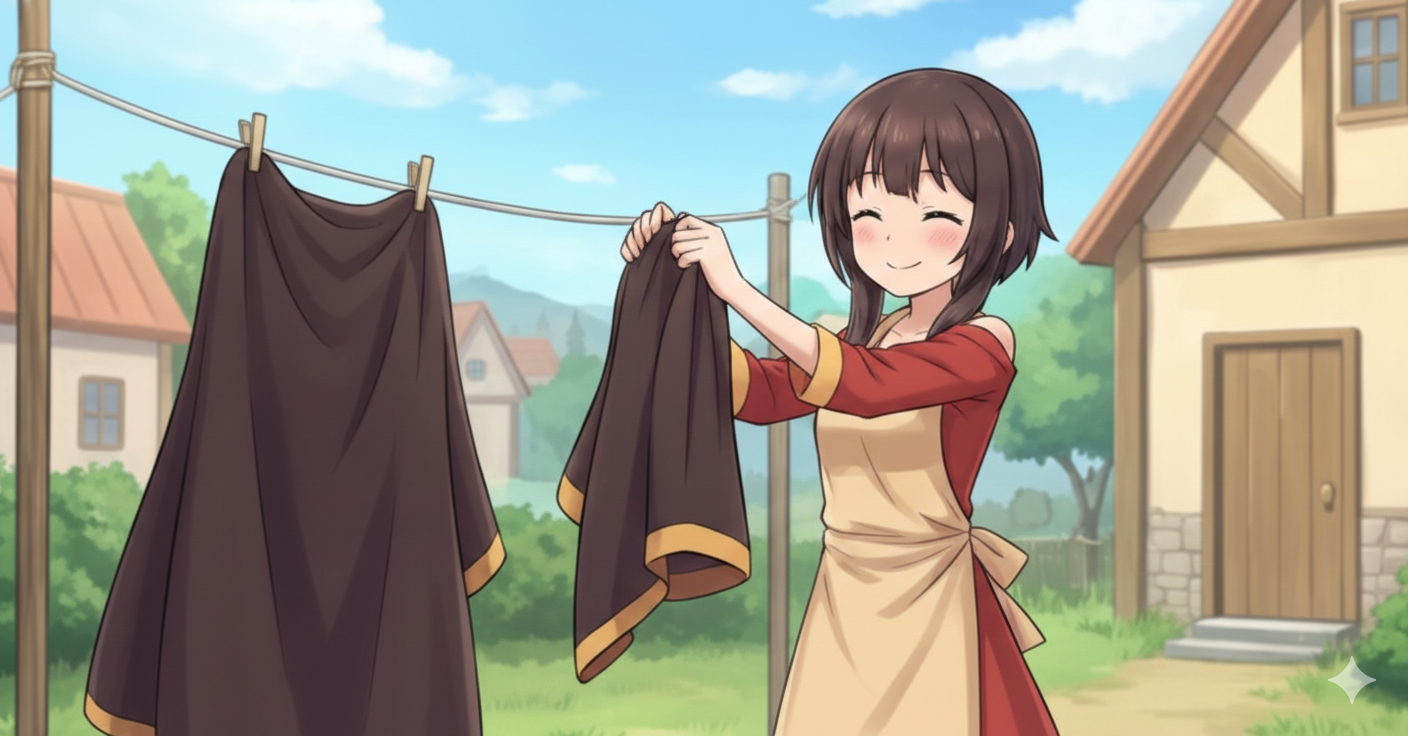
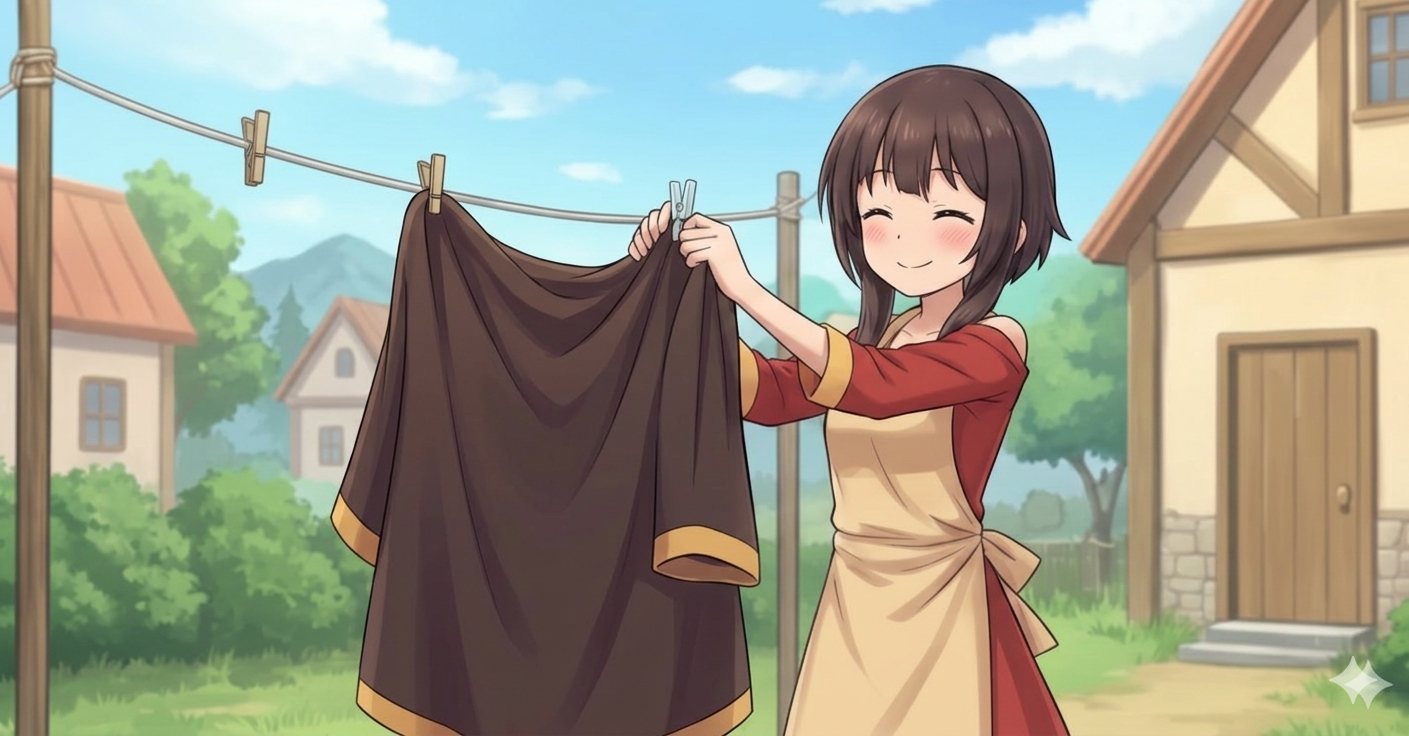
シナリオ・エンジン・スタイル更新、キャラクター画像追加

diff --git a/js/scenario.js b/js/scenario.js
@@ -78,7 +78,7 @@ const CHAPTERS = [
             { bg: 'bg-grassland', char: null, speaker: null, text: '轟音と共に大地が裂け、光の奔流が遠くの岩山を飲み込んだ。爆風が頬を叩き、視界が白く染まる。', effect: 'shake' },
             { bg: 'bg-grassland', char: null, speaker: 'kuu', text: 'な、なんて威力だ……！' },
             { bg: 'bg-grassland', char: 'happy', speaker: null, text: 'だが、隣に立っていたはずのめぐみんが、もう地面にぺたりと座り込んでいる。' },
-            { bg: 'bg-grassland', char: 'proud', charImg: 'images/characters/2.png', speaker: 'めぐみん', text: '……我が奥義である爆裂魔法は、その絶大な威力ゆえ、消費魔力もまた絶大……要約すると、身動きひとつ取れません……' },
+            { bg: 'bg-grassland', char: 'proud', charImg: 'images/characters/2.jpg', speaker: 'めぐみん', text: '……我が奥義である爆裂魔法は、その絶大な威力ゆえ、消費魔力もまた絶大……要約すると、身動きひとつ取れません……' },
             { bg: 'bg-grassland', char: null, speaker: 'kuu', text: 'いや、それ致命的すぎないか！？' },
             { bg: 'bg-grassland', char: 'proud', speaker: 'めぐみん', text: '私は爆裂魔法をこよなく愛するアークウィザード。爆発系統の魔法が好きなのではない……爆裂魔法だけが好きなのです！' },
             {
@@ -145,7 +145,7 @@ const CHAPTERS = [
                     { text: '照れるなって', affection: 2 }
                 ]
             },
-            { bg: 'bg-river', char: 'happy', charImg: 'images/characters/3.png', speaker: null, text: 'それでも彼女の笑い声は、透明な水音のように心地よく響いた。' },
+            { bg: 'bg-river', char: 'happy', charImg: 'images/characters/3.jpg', speaker: null, text: 'それでも彼女の笑い声は、透明な水音のように心地よく響いた。' },
         ]
     },
 
@@ -210,7 +210,7 @@ const CHAPTERS = [
             { bg: 'bg-night-battle', char: 'serious', speaker: 'めぐみん', text: 'いや、ない！　あれほどの敵の大軍を前にして、爆裂魔法を放つ衝動が抑えられようか！' },
             { bg: 'bg-night-battle', char: null, speaker: 'kuu', text: '抑えろ！　理性を持て！' },
             { bg: 'bg-night-battle', char: 'blush', speaker: 'めぐみん', text: '……kuu。もし明日まで生き延びられれば、我が爆裂で奴らを消し飛ばしてみせましょう。だから——' },
-            { bg: 'bg-night-battle', char: 'serious', charImg: 'images/characters/5.png', speaker: 'めぐみん', text: '今日は、そなたが私を守る番です。' },
+            { bg: 'bg-night-battle', char: 'serious', charImg: 'images/characters/5.jpg', speaker: 'めぐみん', text: '今日は、そなたが私を守る番です。' },
             {
                 type: 'choice', text: 'めぐみんの言葉にどう応える？', choices: [
                     { text: '分かった。俺が守る。だから、お前は生き延びろ', affection: 5 },
@@ -225,6 +225,15 @@ const CHAPTERS = [
             { bg: 'bg-night-battle', char: 'normal', speaker: 'めぐみん', text: 'よいか諸君。ここは"安全結界"だ。大人の言うことを聞き、勇敢に待機せよ。' },
             { bg: 'bg-night-battle', char: null, speaker: null, text: '小さな手がぎゅっと繋がる。炊き出しのスープを受け取り、彼女は香草をひと摘み落とした。' },
             { bg: 'bg-night-battle', char: 'serious', speaker: 'めぐみん', text: '勝利の匂いを覚えさせる。次に嗅いだ時、もう恐怖と結びつかないように。' },
+            { bg: 'bg-night-battle', char: 'blush', speaker: 'めぐみん', text: '……kuu。怖いか？' },
+            {
+                type: 'choice', text: '戦いの前に——', choices: [
+                    { text: '怖くない。お前がいるからな', affection: 5 },
+                    { text: '正直、少し怖い。でもやるしかない', affection: 3 },
+                    { text: '怖いわけないだろ（強がる）', affection: 1 }
+                ]
+            },
+            { bg: 'bg-night-battle', char: 'happy', speaker: 'めぐみん', text: '……ふふ。そなたらしい答えです。' },
             { bg: 'bg-night-battle', char: null, speaker: null, text: '俺は頷き、足を踏み出した。魔王軍との戦いの幕が、いま上がろうとしていた。' },
         ]
     },
@@ -251,7 +260,7 @@ const CHAPTERS = [
                     { text: 'めぐみんの前に立ち、背中を守る', affection: 4 }
                 ]
             },
-            { bg: 'bg-night-battle', char: 'serious', charImg: 'images/characters/6.png', speaker: 'めぐみん', text: 'エクスプロージョン！！！', effect: 'explosion' },
+            { bg: 'bg-night-battle', char: 'serious', charImg: 'images/characters/6.jpg', speaker: 'めぐみん', text: 'エクスプロージョン！！！', effect: 'explosion' },
             { bg: 'bg-night-battle', char: null, speaker: null, text: '轟音が全てを飲み込み、魔王軍の前線が一瞬で吹き飛ぶ。炎と衝撃波に包まれた魔物たちは、跡形もなく消え失せていた。', effect: 'shake' },
             { bg: 'bg-night-battle', char: 'happy', speaker: 'めぐみん', text: '……はぁ……はぁ……ナイス爆裂……' },
             { bg: 'bg-night-battle', char: null, speaker: null, text: '膝をついためぐみんを、俺は慌てて抱きとめる。' },
@@ -262,6 +271,14 @@ const CHAPTERS = [
             { bg: 'bg-kitchen', char: 'happy', speaker: 'めぐみん', text: '……香りが、やさしい。' },
             { bg: 'bg-kitchen', char: null, speaker: 'kuu', text: '明日は腕、上がらないぞ。剣の素振りはやめとけ。' },
             { bg: 'bg-kitchen', char: 'happy', speaker: 'めぐみん', text: 'そなたも、爆裂の見学を休め。首が疲れる。' },
+            { bg: 'bg-kitchen', char: 'blush', speaker: 'めぐみん', text: '……kuu。今日は、ありがとう。私を信じてくれて。' },
+            {
+                type: 'choice', text: 'めぐみんにどう答える？', choices: [
+                    { text: 'お前の爆裂を信じてるから、当然だ', affection: 5 },
+                    { text: 'まあ、運が良かっただけだ', affection: 1 },
+                    { text: '二人で勝ったんだ。俺だけの手柄じゃない', affection: 3 }
+                ]
+            },
             { bg: 'bg-kitchen', char: null, speaker: null, text: '冗談を交わしつつ、血のついたマントを手洗いし、竈の火で乾かす。夜更け、外では犬が二度吠え、静けさが戻った。' },
             { bg: 'bg-kitchen', char: null, speaker: null, text: '確かに、戦場には勝利の余韻だけが残っていた。' },
         ]
@@ -301,6 +318,14 @@ const CHAPTERS = [
             { bg: 'bg-inn-room', char: 'proud', speaker: 'めぐみん', text: '裁縫は紅魔族のたしなみだ。マントは旗、旗は誇り。自ら繕う。' },
             { bg: 'bg-inn-room', char: 'happy', speaker: null, text: '昼、パンに卵を挟んだだけのサンドを二つ。めぐみんは「勝者の昼餉だ」と胸を張った。' },
             { bg: 'bg-inn-room', char: null, speaker: 'kuu', text: 'こういうのが、一番うまい。' },
+            { bg: 'bg-inn-room', char: 'blush', speaker: 'めぐみん', text: '……kuu。今の生活、幸せだと思いますか？' },
+            {
+                type: 'choice', text: 'めぐみんの問いに——', choices: [
+                    { text: 'めぐみんがいれば、それだけで幸せだ', affection: 5 },
+                    { text: 'まあ、悪くないんじゃないか', affection: 2 },
+                    { text: '爆裂魔法がなければもっと幸せかもな（冗談）', affection: 3 }
+                ]
+            },
             { bg: 'bg-inn-room', char: null, charImg: 'images/characters/7.png', speaker: null, text: '小さな影が二つ、物干しの下で寄り添っていた。それは戦い以上に大切な絆となったのだった。' },
         ]
     },
@@ -366,12 +391,21 @@ const CHAPTERS = [
             { bg: 'bg-kitchen', char: null, speaker: 'kuu', text: '焦げないように、ゆっくり混ぜて。' },
             { bg: 'bg-kitchen', char: 'normal', speaker: 'めぐみん', text: '任せよ。魔力循環の如く、対流を起こす……おっと、跳ねた。' },
             { bg: 'bg-kitchen', char: 'proud', speaker: 'めぐみん', text: '家事も戦術。二人の生活を守る"結界術"だ。' },
+            { bg: 'bg-kitchen', char: 'blush', speaker: 'めぐみん', text: '……kuu。もし私が爆裂魔法を使えなくなったら、そなたは……どうする？' },
+            {
+                type: 'choice', text: 'めぐみんの問いに——', choices: [
+                    { text: '俺が好きなのは爆裂魔法じゃなくて、めぐみん自身だ', affection: 5 },
+                    { text: '一緒に新しい魔法を探そう', affection: 3 },
+                    { text: 'そんなこと起きないから大丈夫だ', affection: 2 }
+                ]
+            },
+            { bg: 'bg-kitchen', char: 'blush', speaker: 'めぐみん', text: '……ばか。そういうことを言うから、余計に好きになるのだ。' },
             { bg: 'bg-sunset-lake', char: null, speaker: null, text: '食後、湖で指輪の箱を何度も出し入れして、俺は深呼吸を覚えた。' },
             { bg: 'bg-sunset-lake', char: 'happy', speaker: 'めぐみん', text: '緊張は悪い魔物じゃないよ。' },
             { bg: 'bg-sunset-lake', char: null, speaker: 'kuu', text: 'どうして？' },
             { bg: 'bg-sunset-lake', char: 'blush', speaker: 'めぐみん', text: '本気の証拠だから。' },
             // プロポーズ
-            { bg: 'bg-sunset-lake', char: null, speaker: null, text: '俺はポケットから取り出した小さな指輪を、震える手で差し出した。' },
+            { bg: 'bg-sunset-lake', char: null, charImg: 'images/characters/8.5.png', speaker: null, text: '俺はポケットから取り出した小さな指輪を、震える手で差し出した。' },
             {
                 type: 'choice', text: 'プロポーズの言葉は——', choices: [
                     { text: 'めぐみん。俺と結婚してくれ', affection: 5 },
@@ -420,6 +454,14 @@ const CHAPTERS = [
             { bg: 'bg-inn-room', char: null, speaker: 'kuu', text: '名前出すの恥ずかしいんだけど。' },
             { bg: 'bg-inn-room', char: 'happy', speaker: 'めぐみん', text: '明日は何する？　洗濯、買い出し、そして——記念に控えめな祝砲を一発。' },
             { bg: 'bg-inn-room', char: null, speaker: 'kuu', text: '最後のだけなし。' },
+            { bg: 'bg-inn-room', char: 'blush', speaker: 'めぐみん', text: '……kuu。最後にひとつだけ聞いてもいいですか。私と出会えて……よかったですか？' },
+            {
+                type: 'choice', text: '最後の問いに——', choices: [
+                    { text: '出会えて本当によかった。めぐみんは俺の人生で一番の宝物だ', affection: 5 },
+                    { text: '当たり前だろ、バカ', affection: 3 },
+                    { text: '……（言葉の代わりに抱きしめる）', affection: 4 }
+                ]
+            },
             { bg: 'bg-inn-room', char: 'happy', speaker: null, text: '笑い声が、まだ何も染みついていない部屋に、最初の音として刻まれた。' },
             { bg: 'bg-inn-room', char: null, speaker: null, text: 'この先どんな困難が待っていようと、めぐみんとならきっと乗り越えられる——' },
             { bg: 'bg-sunset-lake', char: 'happy', speaker: null, text: 'こうして俺たちの新しい物語が始まったのだった。', effect: 'hearts' },

diff --git a/js/engine.js b/js/engine.js
@@ -73,6 +73,13 @@
         blush: 'images/characters/main4.png.png',
         proud: 'images/characters/main2.png.png' // Utilizing happy for proud as fallback
     };
+    const CHARACTER_SCALE = {
+        normal: 1.08,
+        happy: 0.82,
+        serious: 0.82,
+        blush: 0.82,
+        proud: 0.82
+    };
 
     function setCharacter(expression) {
         if (!expression) {
@@ -92,7 +99,8 @@
 
         if (imagePath) {
             // Use img tag for better control
-            dom.charSprite.innerHTML = `<img src="${imagePath}" class="char-img" alt="${expression}">`;
+            const scale = CHARACTER_SCALE[expression] ?? 1.08;
+            dom.charSprite.innerHTML = `<img src="${imagePath}" class="char-img" alt="${expression}" style="--char-scale: ${scale}">`;
             requestAnimationFrame(() => {
                 dom.charSprite.classList.add('visible');
             });
@@ -352,6 +360,8 @@
         dom.choiceContainer.classList.add('active');
         dom.clickArea.style.pointerEvents = 'none';
 
+        const maxAffection = Math.max(...scene.choices.map(c => c.affection));
+
         scene.choices.forEach((choice, idx) => {
             const btn = document.createElement('button');
             btn.className = 'choice-btn';
@@ -361,11 +371,39 @@
                 dom.choiceContainer.classList.remove('active');
                 dom.dialogueContainer.style.opacity = '1';
                 dom.clickArea.style.pointerEvents = '';
+
+                // Best answer: screen-filling hearts + blush!
+                if (choice.affection >= maxAffection && maxAffection > 0) {
+                    setCharacter('blush');
+                    playBigHeartsEffect();
+                }
+
                 state.sceneIndex++;
                 processScene();
             });
             dom.choiceContainer.appendChild(btn);
         });
+    }
+
+    function playBigHeartsEffect() {
+        dom.effectLayer.className = 'effect-layer effect-hearts';
+        const heartChars = ['♥', '♡', '💕', '💗', '💖'];
+        const count = 30;
+        for (let i = 0; i < count; i++) {
+            const heart = document.createElement('span');
+            heart.className = 'heart-particle heart-big';
+            heart.textContent = heartChars[Math.floor(Math.random() * heartChars.length)];
+            heart.style.left = `${Math.random() * 100}%`;
+            heart.style.top = `${20 + Math.random() * 70}%`;
+            heart.style.animationDelay = `${Math.random() * 1.2}s`;
+            heart.style.fontSize = `${1.5 + Math.random() * 2.5}rem`;
+            heart.style.color = `hsl(${330 + Math.random() * 30}, ${70 + Math.random() * 30}%, ${50 + Math.random() * 25}%)`;
+            dom.effectLayer.appendChild(heart);
+            setTimeout(() => heart.remove(), 4000);
+        }
+        setTimeout(() => {
+            dom.effectLayer.className = 'effect-layer';
+        }, 4000);
     }
 
     // === Chapter Title Display ===
@@ -657,15 +695,61 @@
     function runSkip() {
         if (!state.skipMode) return;
         const scene = getCurrentScene();
+
+        // Stop skip at choices or end of chapter
         if (!scene || scene.type === 'choice') {
             state.skipMode = false;
             $('btn-skip').classList.remove('active');
             return;
         }
+
+        // If currently typing, finish instantly
         if (state.isTyping) finishTyping();
+
+        // Clean up any active Event CG immediately
+        hideEventCG();
+        dom.uiLayer.style.opacity = '1';
+
+        // Clear any pending auto timers
+        clearTimeout(state.autoTimer);
+
         setTimeout(() => {
+            if (!state.skipMode) return;
+
             state.sceneIndex++;
-            processScene();
+            const nextScene = getCurrentScene();
+
+            // End of chapter
+            if (!nextScene) {
+                state.skipMode = false;
+                $('btn-skip').classList.remove('active');
+                advanceChapter();
+                return;
+            }
+
+            // Stop at choices
+            if (nextScene.type === 'choice') {
+                state.skipMode = false;
+                $('btn-skip').classList.remove('active');
+                processScene();
+                return;
+            }
+
+            // For Event CG scenes during skip: show content but skip the CG animation
+            if (nextScene.charImg) {
+                // Set background and character without the CG overlay
+                if (nextScene.bg) setBackground(nextScene.bg);
+                if (nextScene.char !== undefined) setCharacter(nextScene.char);
+                setSpeaker(nextScene.speaker);
+                dom.dialogueText.textContent = nextScene.text;
+                state.isTyping = false;
+                dom.clickIndicator.classList.add('visible');
+            } else {
+                // Normal scene processing
+                processScene();
+            }
+
+            // Continue skipping
             if (state.skipMode) setTimeout(runSkip, 150);
         }, 100);
     }

diff --git a/css/style.css b/css/style.css
@@ -765,6 +765,35 @@ button {
   }
 }
 
+/* Big hearts for correct choice */
+.effect-hearts .heart-particle.heart-big {
+  animation: heart-float-big 3.5s ease-out forwards;
+  filter: drop-shadow(0 0 6px rgba(255, 80, 120, 0.6));
+  z-index: 100;
+}
+
+@keyframes heart-float-big {
+  0% {
+    transform: translateY(0) scale(0) rotate(0deg);
+    opacity: 0;
+  }
+
+  15% {
+    opacity: 1;
+    transform: translateY(-20px) scale(1.3);
+  }
+
+  50% {
+    opacity: 0.9;
+    transform: translateY(-120px) scale(1) rotate(10deg);
+  }
+
+  100% {
+    transform: translateY(-300px) scale(0.4) rotate(30deg);
+    opacity: 0;
+  }
+}
+
 /* Character Layer */
 .char-layer {
   position: absolute;
@@ -778,9 +807,9 @@ button {
 
 .character-sprite {
   position: relative;
-  width: 340px;
-  height: 540px;
-  margin-bottom: 8%;
+  width: clamp(540px, 40vw, 620px);
+  height: clamp(810px, 60vw, 930px);
+  margin-bottom: 2%;
   transition: all 0.5s ease;
   opacity: 0;
   transform: translateY(20px);
@@ -793,10 +822,15 @@ button {
 
 /* Image-based character */
 .char-img {
-  width: 100%;
+  display: block;
+  width: auto;
+  max-width: 100%;
   height: 100%;
+  margin: 0 auto;
   object-fit: contain;
-  object-position: bottom center;
+  object-position: center bottom;
+  transform: scale(var(--char-scale, 1));
+  transform-origin: center bottom;
   filter: drop-shadow(0 4px 12px rgba(0, 0, 0, 0.5));
   transition: opacity 0.3s ease;
 }
@@ -1195,8 +1229,8 @@ button {
   }
 
   .character-sprite {
-    width: 200px;
-    height: 340px;
+    width: min(76vw, 380px);
+    height: min(118vw, 590px);
   }
 
   .affection-display {
